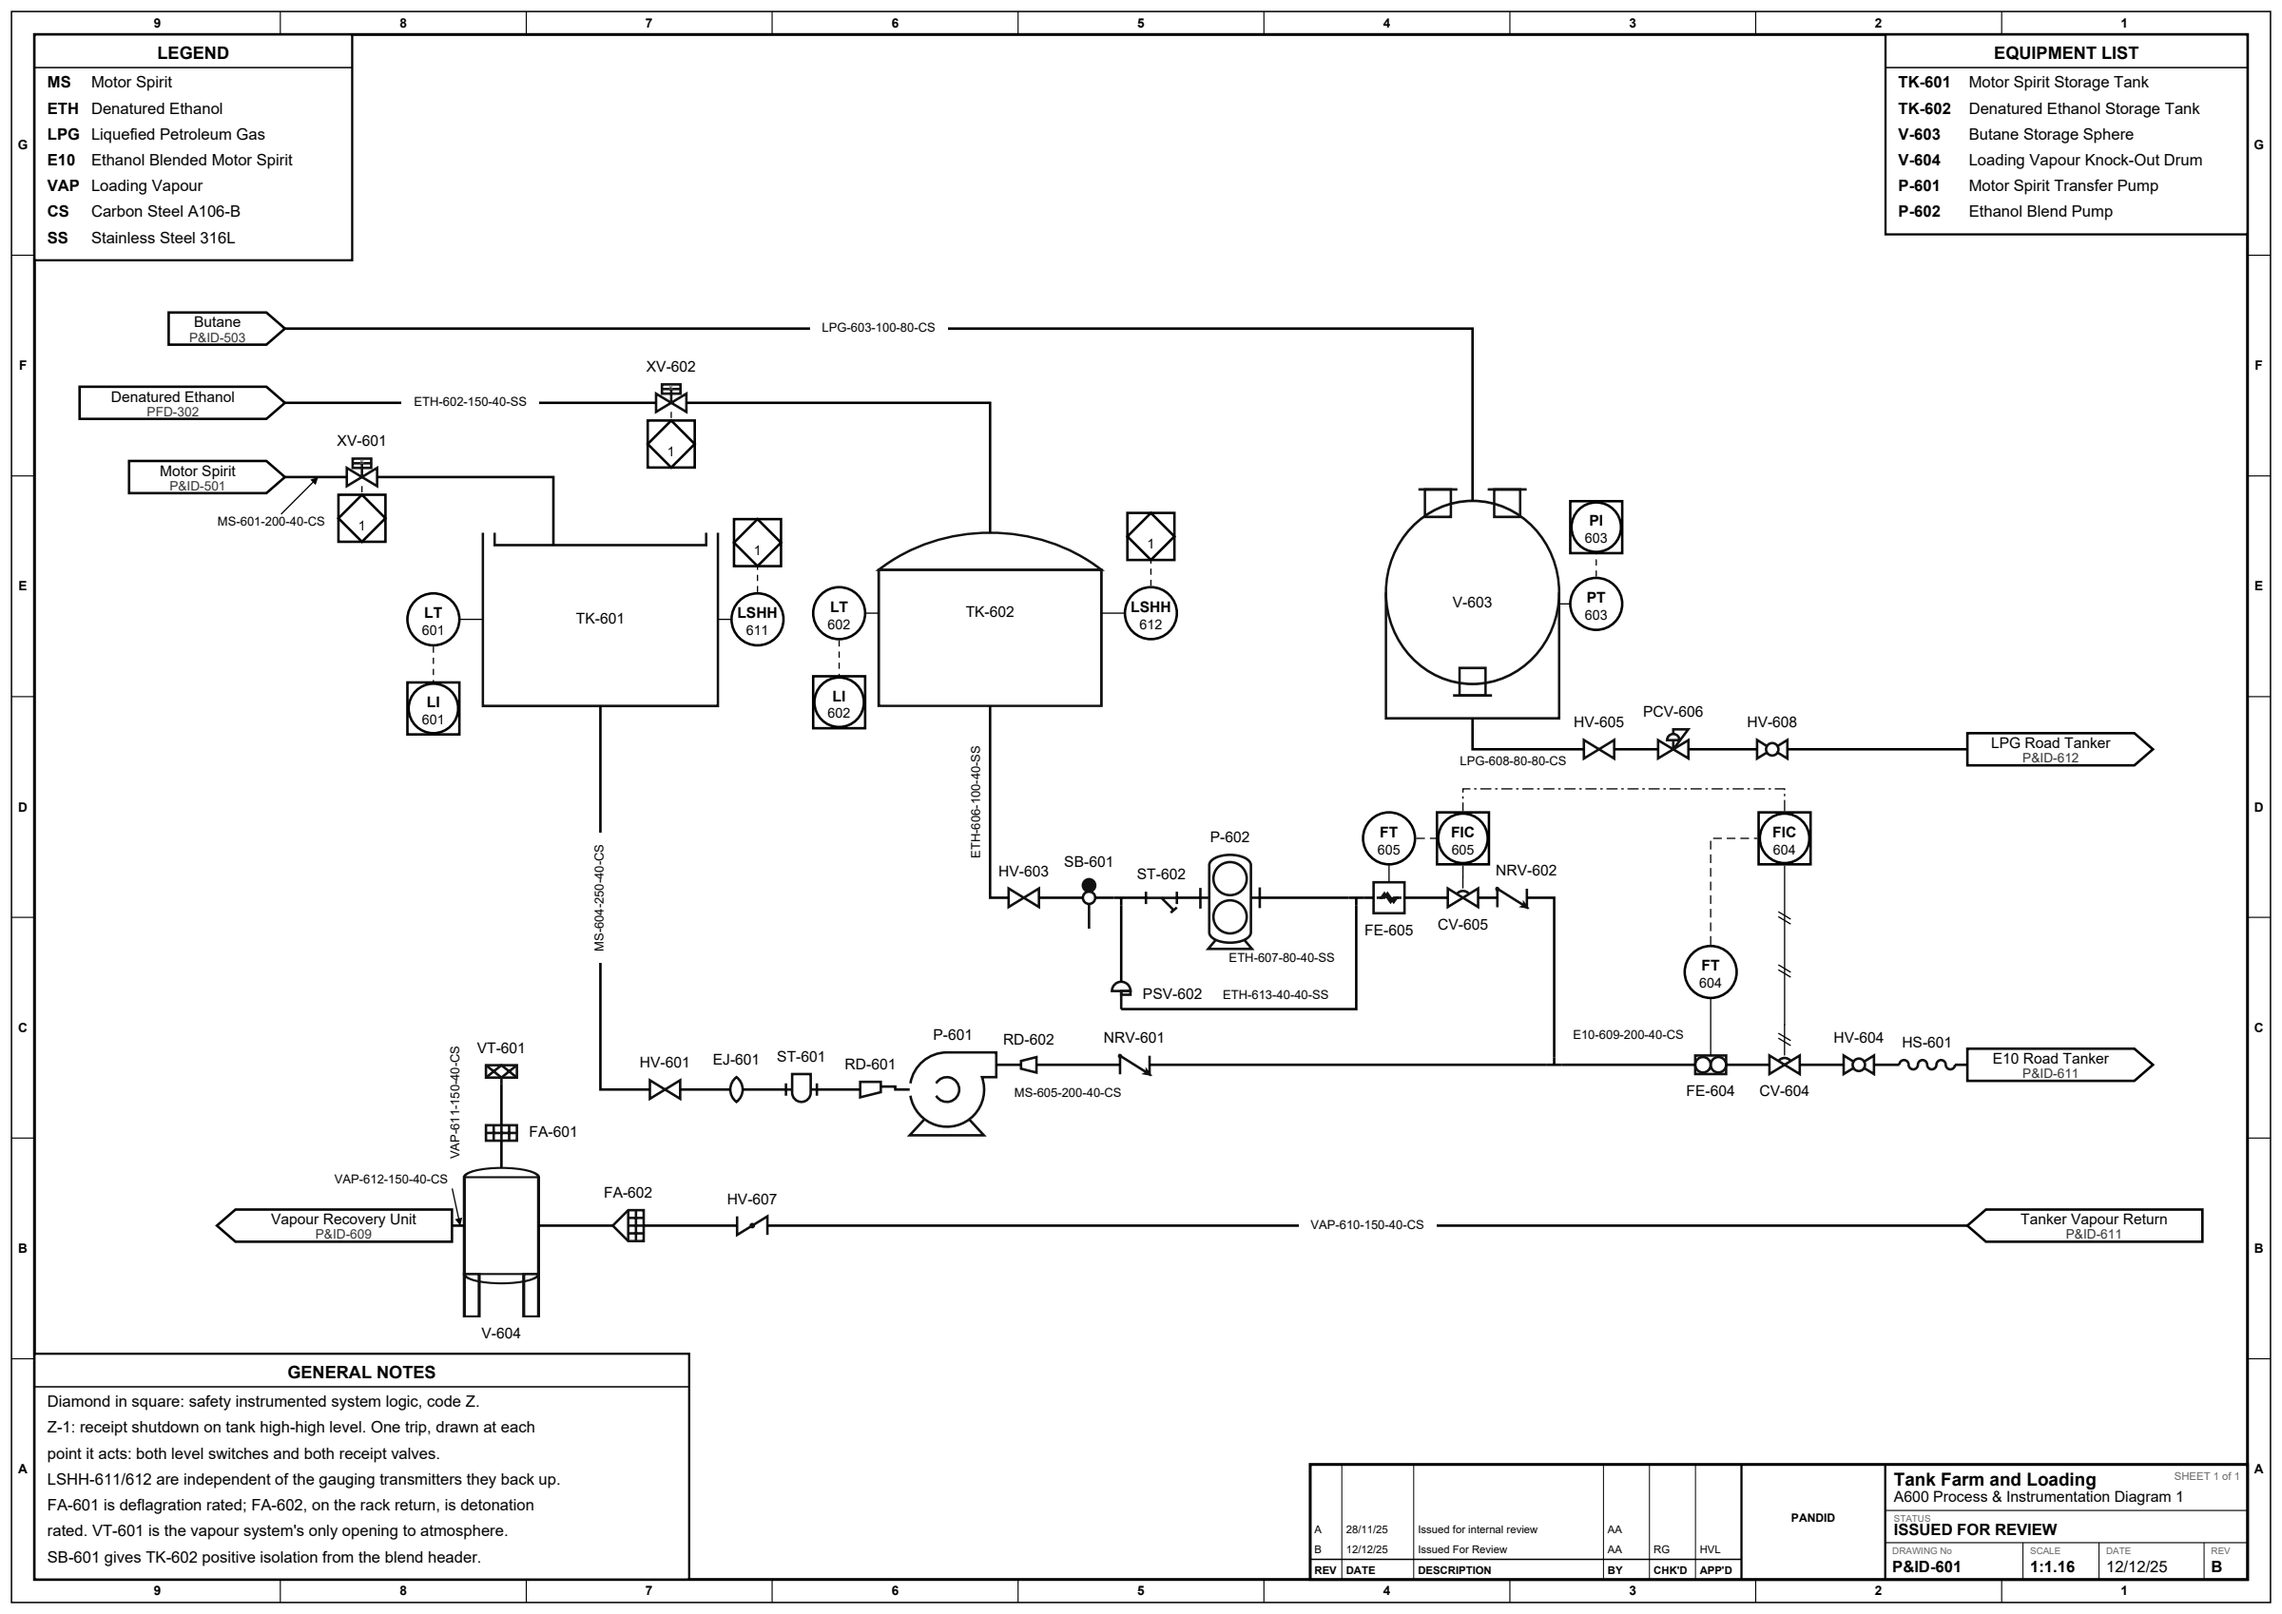
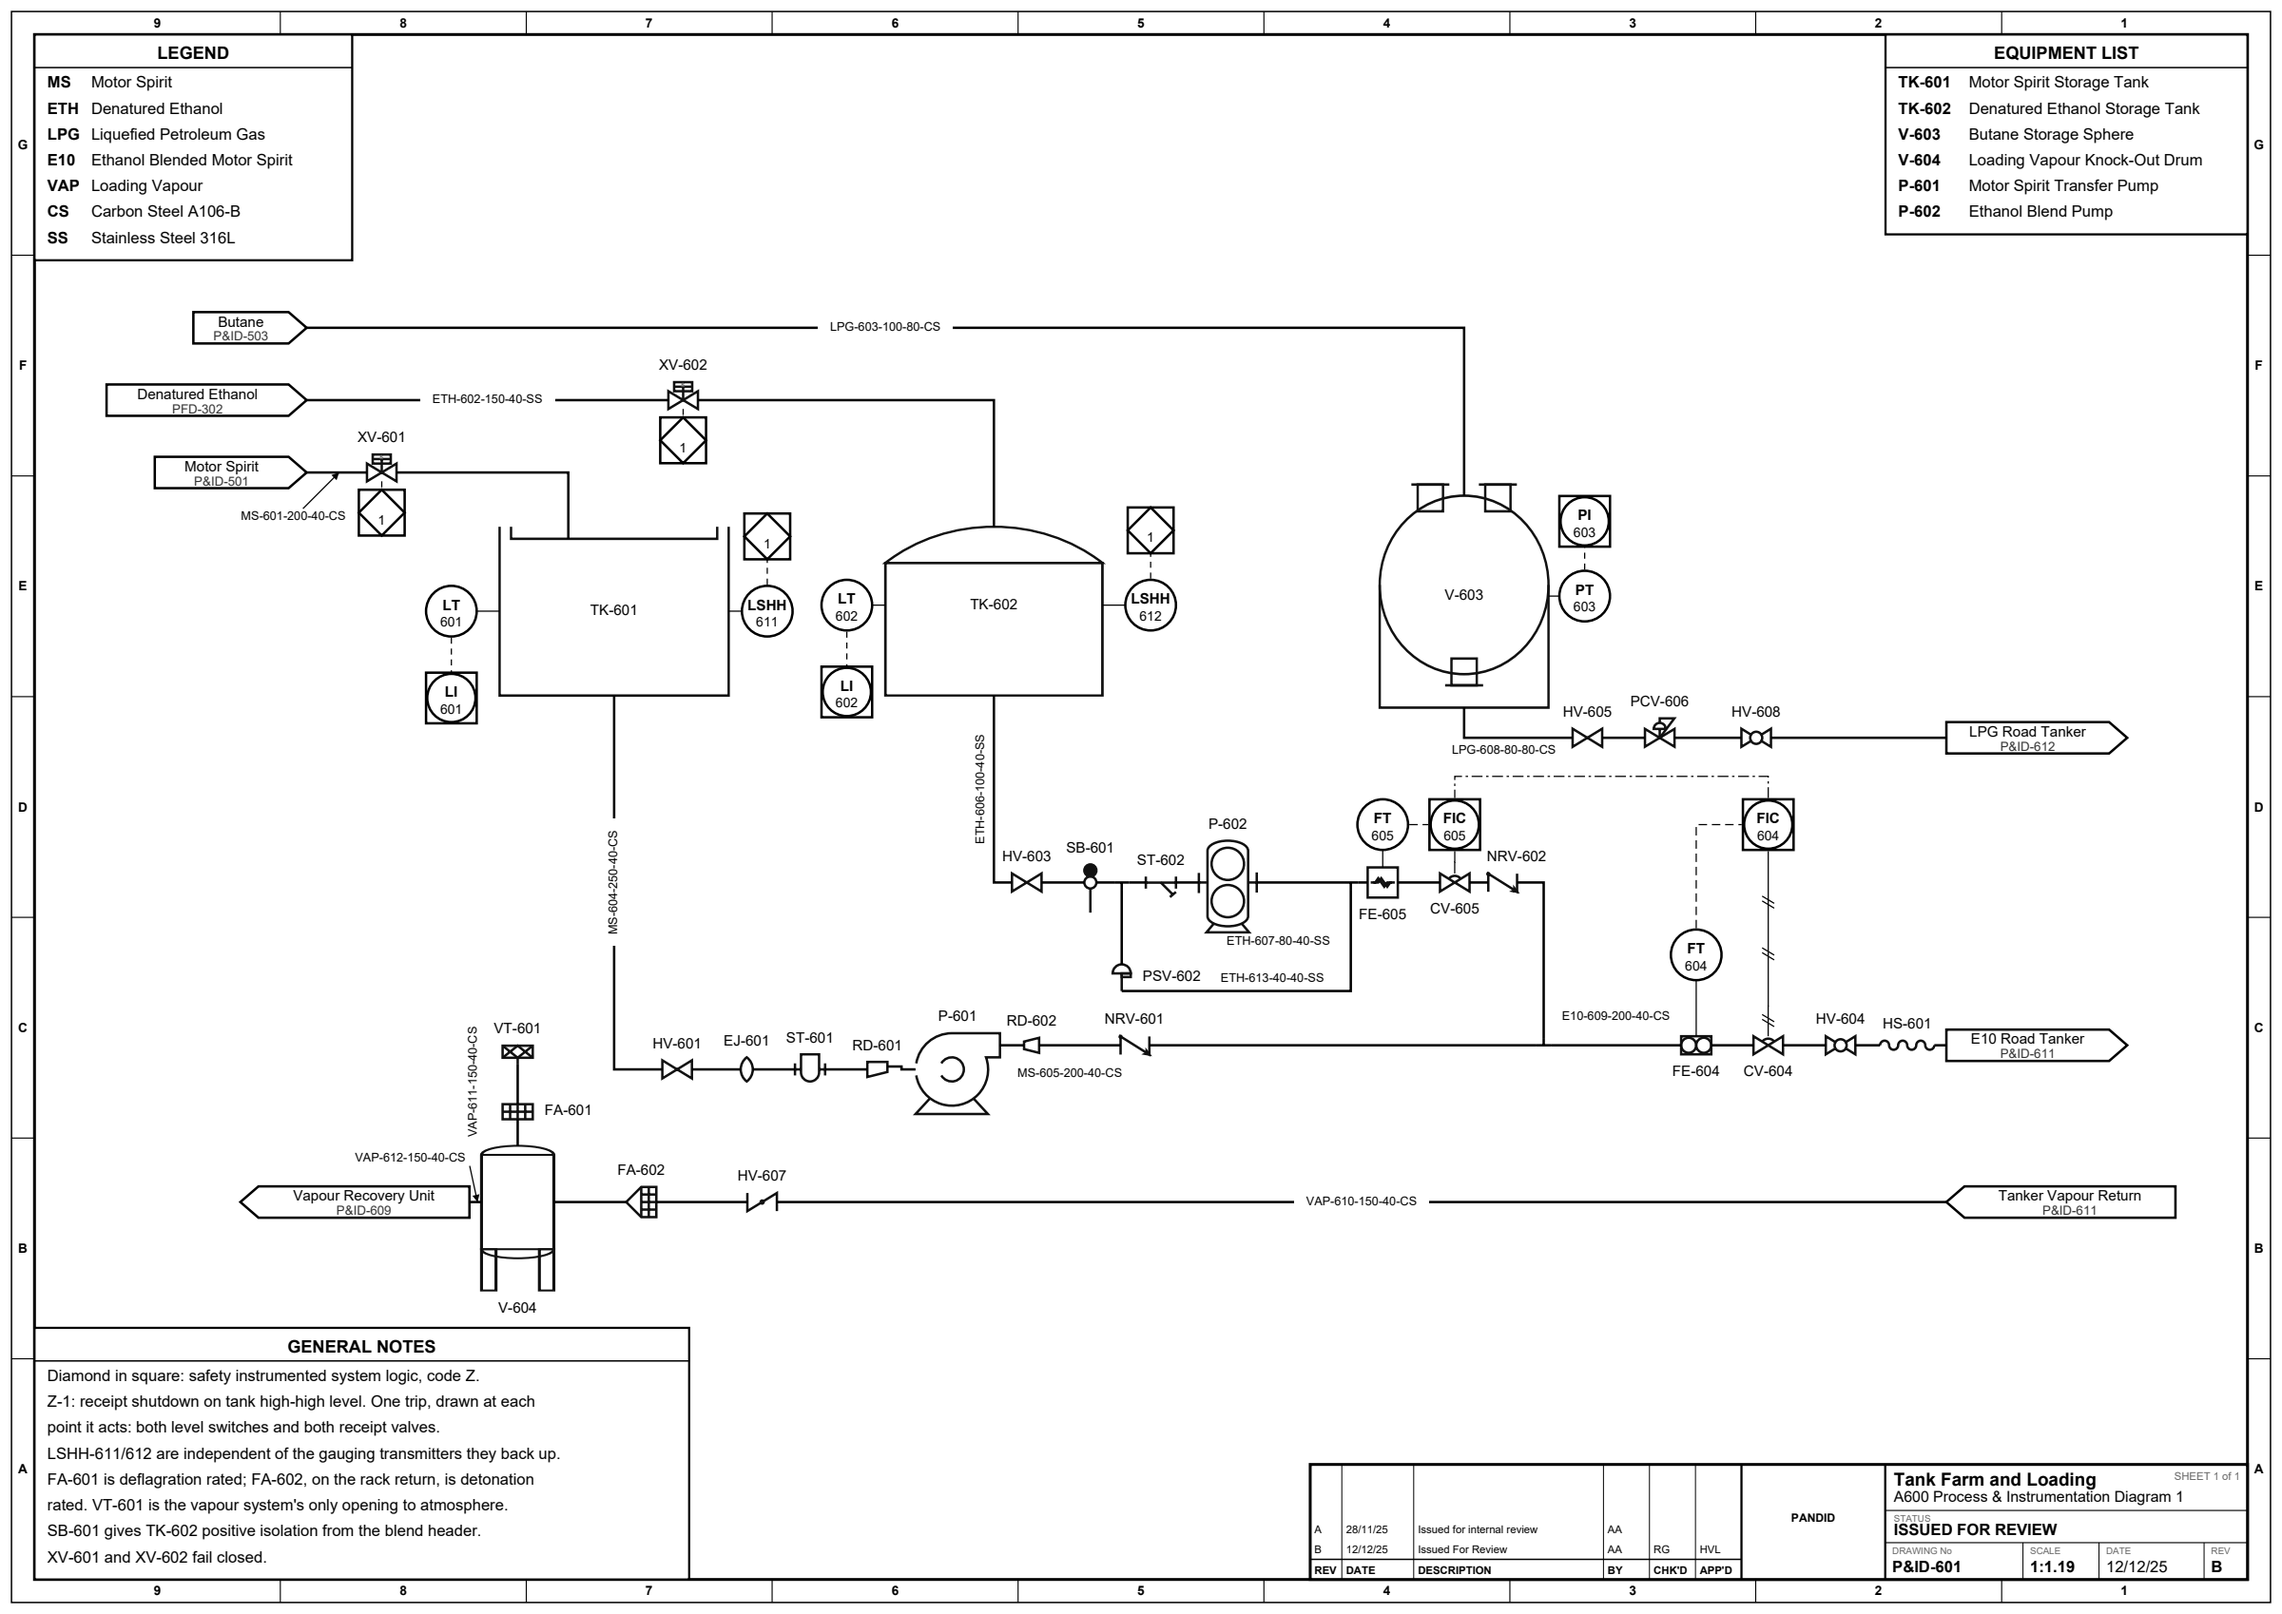
docs(examples): correct the tank farm's quoted clauses and note the fail action

diff --git a/examples/14_tank_farm.py b/examples/14_tank_farm.py
@@ -10,8 +10,9 @@ sheet is dense in symbols the reactor-and-column examples never reach for.
 **It is a P&ID, and it has to be.** Almost everything this sheet exists to draw
 is line hardware, and ISO 15519-2 puts line hardware on one diagram type and
 not the other. Its Table 4, the process flow diagram, allows "general graphical
-symbols for process equipment, valve actuators" and never names a valve, a
-reducer or a fitting anywhere in either of its columns. Its Table 5, the
+symbols for process equipment, valve actuators, PCI symbols" and never names a
+valve *body*, a reducer or a fitting in either of its columns -- all three of
+its mentions of the word are of an actuator. Its Table 5, the
 process and instrumentation diagram, opens its *basic* information with
 "specific graphical symbols for process equipment incl. prime movers ...,
 valves incl. actuators, connections, etc." and its additional information with
@@ -230,7 +231,15 @@ def main():
     vru_out = fs.add(units.Product("Vapour Recovery Unit", reference="P&ID-609"))
 
     # --- In-line: motor spirit -------------------------------------------
-    xv601 = fs.add(units.Valve("XV-601", variant="solenoid", description="MS Receipt Trip Valve"))
+    # Both receipt valves fail closed, and both say so in the notes rather than
+    # on the valve. fail="closed" is the drawn form and was tried first: it puts
+    # an FC under the valve body, which is the same face the trip square hangs
+    # on, and the mark's halo then deletes the impulse line joining the two. The
+    # square is the more important of the pair -- it is the whole of what Z-1
+    # claims -- so the mark comes off and the words go in the notes box, which is
+    # what a notes box is for.
+    xv601 = fs.add(units.Valve("XV-601", variant="solenoid",
+                               description="MS Receipt Trip Valve"))
     xv602 = fs.add(units.Valve("XV-602", variant="solenoid",
                                description="Ethanol Receipt Trip Valve"))
     hv601 = fs.add(units.Valve("HV-601", variant="gate", description="TK-601 Root Valve"))
@@ -501,9 +510,10 @@ def main():
     # else, which CHEE4001 p.13 still calls a loop: "a group of components
     # required to perform the desired function of the monitor or control scheme".
     #
-    # The alarms those indicators carry are not drawn. ISO 15519-2 5.2.5 requires
-    # a letter code with an H or L modifier to be written outside the PCI symbol
-    # as a code string, and pandid cannot yet annotate a balloon that way; the
+    # The alarms those indicators carry are not drawn. ISO 15519-2 5.2.5 is a
+    # shall -- "Letter code combinations with modifiers H and L shall be
+    # represented outside the PCI symbol" -- and pandid cannot yet write a code
+    # string beside a balloon, which is what that asks for; the
     # same deviation is argued at length in examples/11_ethanol_pid.py, and this
     # sheet takes the other branch of it -- leaving them off rather than drawing
     # them as balloons -- because the protection that matters here is the trip
@@ -629,6 +639,7 @@ def main():
         "FA-601 is deflagration rated; FA-602, on the rack return, is detonation",
         "rated. VT-601 is the vapour system's only opening to atmosphere.",
         "SB-601 gives TK-602 positive isolation from the blend header.",
+        "XV-601 and XV-602 fail closed.",
     ], title="GENERAL NOTES", numbered=False, align="bottom-left"))
     fs.add_annotation(legend({
         "MS": "Motor Spirit",

diff --git a/tests/test_golden.py b/tests/test_golden.py
@@ -1692,6 +1692,7 @@ def _tank_farm() -> Flowsheet:
                 "FA-601 is deflagration rated; FA-602, on the rack return, is detonation",
                 "rated. VT-601 is the vapour system's only opening to atmosphere.",
                 "SB-601 gives TK-602 positive isolation from the blend header.",
+                "XV-601 and XV-602 fail closed.",
             ],
             title="GENERAL NOTES",
             numbered=False,
